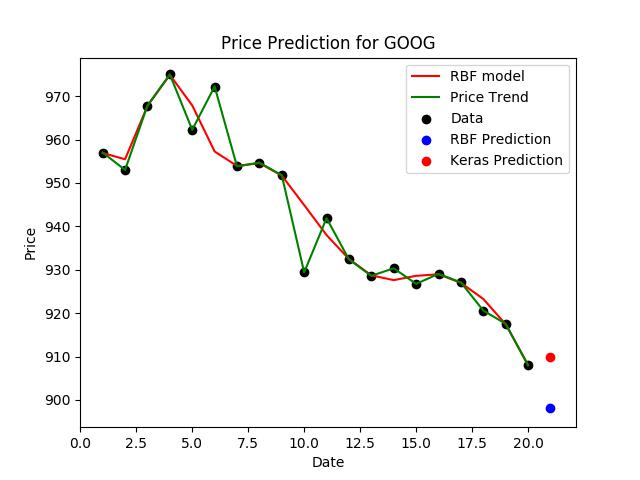
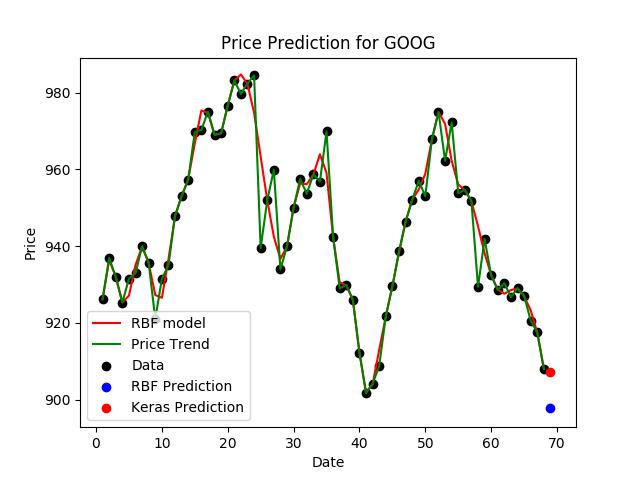
updated main.py

diff --git a/bin/main.py b/bin/main.py
@@ -7,8 +7,10 @@ import signal
 import sys
 import time
 import fetch_csv as fc
+import utils as ut
 from tweet_analyser import TwitterClient
 import logging
+import log_init
 
 # Signal Handler
 def exit_gracefully(signum, frame):
@@ -32,6 +34,7 @@ def main():
 	
 	# store the original SIGINT handler
 	original_sigint = signal.getsignal(signal.SIGINT)
+	log_init.initialize_logger('../log')
 
 	print("Starting Stock Price Prediction Program...\n")
 	# Go in Event Loop
@@ -39,25 +42,23 @@ def main():
 
 		# Take input query from user 
 		stock = input("\nEnter Stock Symbol (Like GOOG, AAPL etc.): ")
+		days = int(input("\nEnter number of days for which data is to fetched: "))
 
-		# Fetch stock csv from google finance
-		fc.fetch_stock_csv(stock)
+		result, ptweets, ntweets, predicted_price_rbf, predicted_price_keras = ut.stock_price_predictor(stock, days)
 
-		# creating object of TwitterClient Class
-		api = TwitterClient()
+		if result:
+			print("\n**** RESULT *****\n")
+			print("Postive Tweets: {}".format(len(ptweets)))
+			print("Negative Tweets: {}".format(len(ntweets)))
+			print("Current price: {}".format(ut.get_recent_price(stock)))
+			print("\n ** Prediction **\n")
+			print("RBF: {}".format(predicted_price_rbf))
+			print("KERAS: {}".format(predicted_price_keras))
+		else:
+			print("\n Please validate the stock symbol/days input")
 
-		# calling function to get tweets
-		tweets = api.get_tweets(query = stock, count = 2000)
-
-		# picking positive tweets from tweets
-		ptweets = [tweet for tweet in tweets if tweet['sentiment'] == 'positive']
-
-		# picking negative tweets from tweets
-		ntweets = [tweet for tweet in tweets if tweet['sentiment'] == 'negative']
-
-		print("\nPostive Tweets: {}".format(len(ptweets)))
-		print("\nNegative Tweets: {}".format(len(ntweets)))
-
+	# End of while Loop		
+	
 	print("Exiting from program...")
 if __name__ == '__main__': 
 	main()
